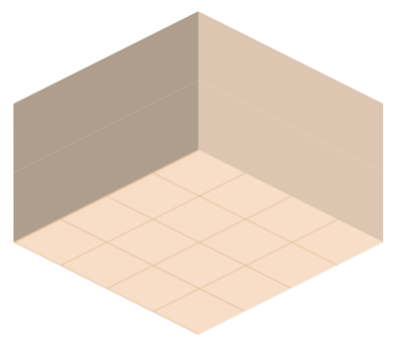
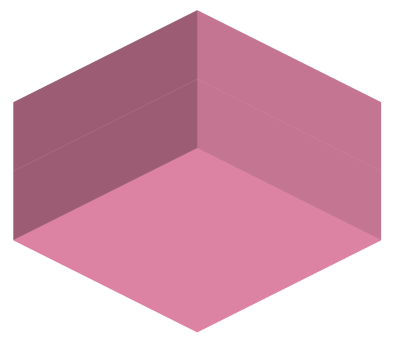
homepage-css-done

diff --git a/src/routes/Homepage.svelte b/src/routes/Homepage.svelte
@@ -54,14 +54,44 @@
     .button {
         display: block;
         margin: auto;
-        background-color: #F8DEC7;
+        background-color: #DC83A4;
         border: none;
         font-family: "Porpora-Regular";
         font-size: 2rem;
-        padding: 0.5rem;
-        border-radius: 0.5rem;
-        color: #DC83A4;
+        padding: 1rem;
+        border-radius: 1.5rem;
+        color: #F8DEC7;
         cursor: pointer;
+    }
+    .big{
+        display: flex;
+    }
+
+    .left-side{
+        width: 25vw;
+
+    }
+    .middle-side{
+        width: 50vw;
+
+    }
+    .right-side{
+        width: 25vw;
+
+    }
+    .left-arrow, .right-arrow, .coin-icon{
+        width: 4rem;
+    }
+    .top-bar {
+        display: flex;
+        align-items: center;
+        justify-content: center;
+    }
+    .coin-bar{
+        display: flex;
+        align-items: center;
+        justify-content: center;
+        padding-bottom: 2rem;
     }
 
     @-webkit-keyframes mover {
@@ -79,6 +109,17 @@
         display: -webkit-box;
         margin-left: auto;
     }
+    .top-bar-title{
+        color: #DC83A4;
+        padding-left: 4rem;
+        padding-right: 4rem;
+        font-size: 2.5rem;
+    }
+    .coin-value{
+        color: #DC83A4;
+        padding-left: 3rem;
+        font-size: 2rem;
+    }
 </style>
 
 <!-- svelte-ignore a11y-click-events-have-key-events -->
@@ -87,9 +128,31 @@
     <InSession/>
 {:else}
     <div class="buffer"></div>
-    <button id='studyhouseStartButton' on:click={startSessionModal} class="button" disabled>Turn On The StudyHouse Extension</button>
-    <br>
-    <button on:click={seeActivitiesModal} class="button">See Previous Activities</button>
-    <img src="isometric.png" alt="isometric" class="isometric"> 
+    <div class="big">
+        <div class="left-side">
+            <button id='studyhouseStartButton' on:click={startSessionModal} class="button" disabled>Turn On The StudyHouse Extension</button>
+            <br>
+            <button id='seePreviousActivities' on:click={seeActivitiesModal} class="button">See Previous Activities</button>
+        </div>
+        <div class="middle-side">
+            <div class="top-bar">
+                <img class ="left-arrow" src="left-arrow.png" alt="left-arrow" >
+                <div class="top-bar-title"> Bedroom</div>
+                <img class ="right-arrow" src="right-arrow.png" alt="right-arrow" >
+            </div>
+            
+            <img src="isometric.png" alt="isometric" class="isometric"> 
+        </div>
+        <div class="right-side">
+            <div class="coin-bar">
+                <img src="coin-icon.png" alt="coin-icon" class="coin-icon"> 
+                <div class="coin-value">000</div>
+            </div>
+            
+            <button  class="button">Customize Study House</button>
+        </div>
+    </div>
+    
+    
 {/if}
 <ModalManager/>

diff --git a/src/routes/components/StartSessionModal.svelte b/src/routes/components/StartSessionModal.svelte
@@ -17,9 +17,11 @@
 
 </script>
 
-<h1>What do you want to accomplish this session?</h1>
-<p>This session, I want to...</p>
-<form>
-	<input bind:value={activity} type="text" required>
-	<input type="submit" value="Start Session!" on:click={startSession}>
-</form>
+<div style="background-color: #DC83A4;">
+	<h1>What do you want to accomplish this session?</h1>
+	<p>This session, I want to...</p>
+	<form>
+		<input bind:value={activity} type="text" required>
+		<input type="submit" value="Start Session!" on:click={startSession}>
+	</form>
+</div>

diff --git a/src/routes/components/InSession.svelte b/src/routes/components/InSession.svelte
@@ -59,13 +59,13 @@
     .button {
         display: block;
         margin: auto;
-        background-color: #F8DEC7; 
+        background-color: #DC83A4;
         border: none;
         font-family: "Porpora-Regular";
         font-size: 2rem;
-        padding: 0.5rem;
-        border-radius: 0.5rem;
-        color: #DC83A4;
+        padding: 1rem;
+        border-radius: 1.5rem;
+        color: #F8DEC7;
         cursor: pointer;
     }
 

diff --git a/src/app.html b/src/app.html
@@ -12,6 +12,16 @@
 		padding: 0;
 		margin: 0;
 	}
+
+	.content {
+		background-color: #DC83A4 !important;
+		border-radius: 2rem !important;
+	}
+
+	.window {
+		background-color: #DC83A4 !important;
+		border-radius: 2rem !important;
+	}
 </style>
 
 <html lang="en">
